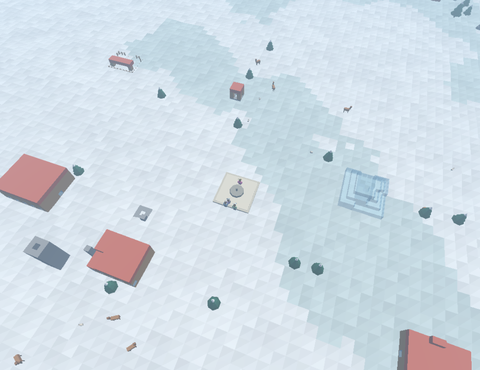
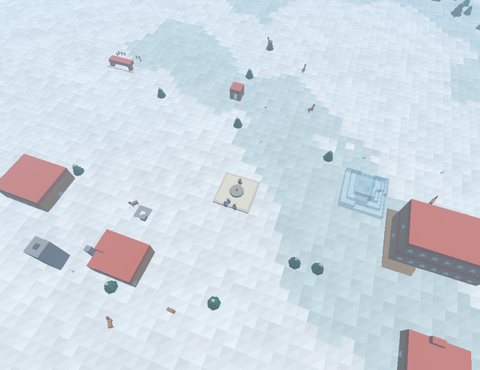
feat(buildings): two-storey estates with real staircase, leveled foundations, upper-floor rooms in premium worlds; walk-up tests; refreshed gallery photos; docs

diff --git a/docs/SCENARIOS.md b/docs/SCENARIOS.md
@@ -65,7 +65,14 @@ Seedها با اسکن ۳۰۰ Seed انتخاب شدهاند (بیشترین 
 - جهان خالی با Seed تصادفی از «جهان جدید» + نام در منو همچنان هست.
 
 ## اتاقهای داخلی و پرتر شدن جهانها
-- `_room_house` در `scenarios.gd`: خانه با دیوار جداکنندهٔ داخلی، **درگاه دوبلوکی** میان اتاقها و مبلمان هر اتاق (`ROOM_ITEMS`: خواب، آشپزخانه، کتابخانه، انبار، تالار، شومینه، مغازه). فقط دو ردیف عقب پر میشود تا در ورودی و درگاهها همیشه باز بمانند. تکطبقه است (طبقهٔ دوم هنوز نیست).
+- `_room_house` در `scenarios.gd`: خانه با دیوار جداکنندهٔ داخلی، **درگاه دوبلوکی** میان اتاقها و مبلمان هر اتاق (`ROOM_ITEMS`: خواب، آشپزخانه، کتابخانه، انبار، تالار، شومینه، مغازه). فقط دو ردیف عقب پر میشود تا در ورودی و درگاهها همیشه باز بمانند. 
 - سازههای تازه: عمارت (۳ اتاق)، مسافرخانه (۳)، سه خانهٔ شهری، برجخانهٔ قلعه، تالار بلند و دو کلبهٔ زمستانی، کلبهٔ ماهیگیر، سه خانهٔ آجری صحرایی، تالار اصناف، چاه، ستون یادبود، طویله، زمینهای ساخت.
 - هر جهان ویژه ۴ تا ۶ سازهٔ تازه گرفته و رایگانها ۳ تا؛ آزمون `test_gallery_and_rooms` تضمین میکند کمسازهترین جهان ویژه از کمسازهترین رایگان پرتر باشد.
 - فقط جهانهای تازه این سازهها را میگیرند.
+
+## عمارت دوطبقه با راهپله
+- `_stair_house`: همکف + دال سقف + طبقهٔ بالا + سقف؛ اتاق چپ پلهدار است: **چهار پلهٔ ۱بلوکی** روی ردیف پشتی (رو به +x، `meta=16`)، هر پله روی ستون چوبی؛ دال سقف همکف بالای پله **باز** است و بالای چاهپله نردهٔ حصاری و سردرگاه چراغدار میخورد. اتاق راست در همکف تالار و در طبقهٔ بالا اتاق خواب دارد؛ ایوان با دو ستون چراغدار جلوی در.
+- در جهانهای ویژه: ناخدای تنها، قلعهٔ فراموششده، شهر بازرگانان (سنگ)، شمال یخزده (چوب)، کاروان صحرا (آجر) با نشانی `estate_<جنس>@dx,dz` (جای هر جهان روی زمین تقریباً تخت).
+- **زیرسازی خودکار:** ستونهای این عمارت یک «گروه تراز» دارند؛ `ScenarioApply` همه را از بلندترین زمین زیر عمارت شروع میکند و زیرش را با `dirt` پر میکند تا کف و پلهها روی شیب همتراز باشند (زمین باید حداکثر ۱ بلوک ناهموار باشد تا از بیرون با یک گام بالا بروید).
+- آزمونها در هر پنج جهان با قاعدهٔ واقعی حرکت (`STEP_UP=1`) از در تا پای پله و از پای پله تا طبقهٔ بالا قدمبهقدم میروند.
+- محدودیت: نردهٔ طبقهٔ بالا فقط کنار چاهپله است؛ بالا رفتن با دکمهٔ پرش لازم نیست (پلهها رمپاند).
